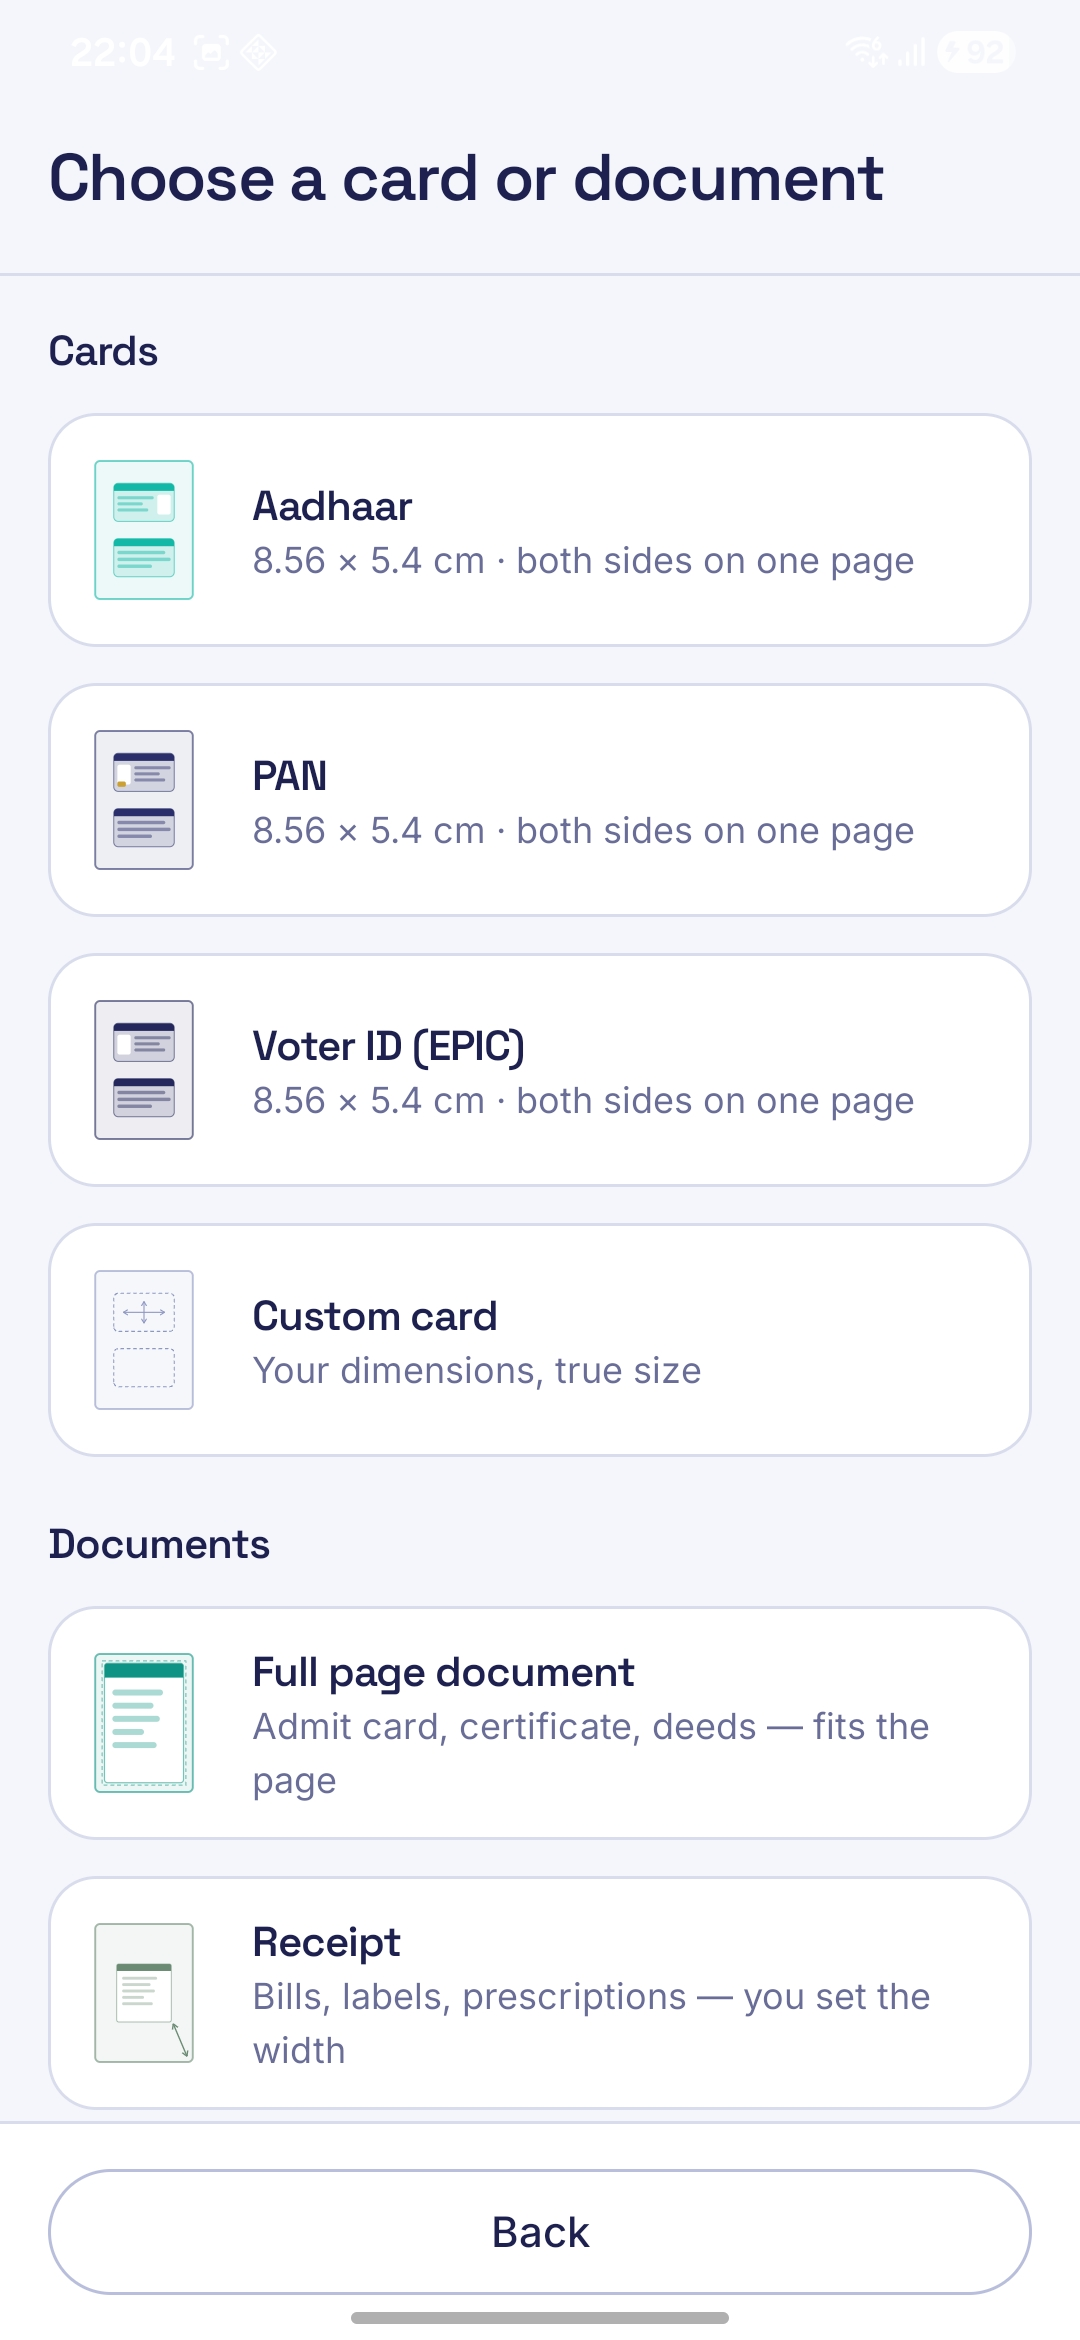
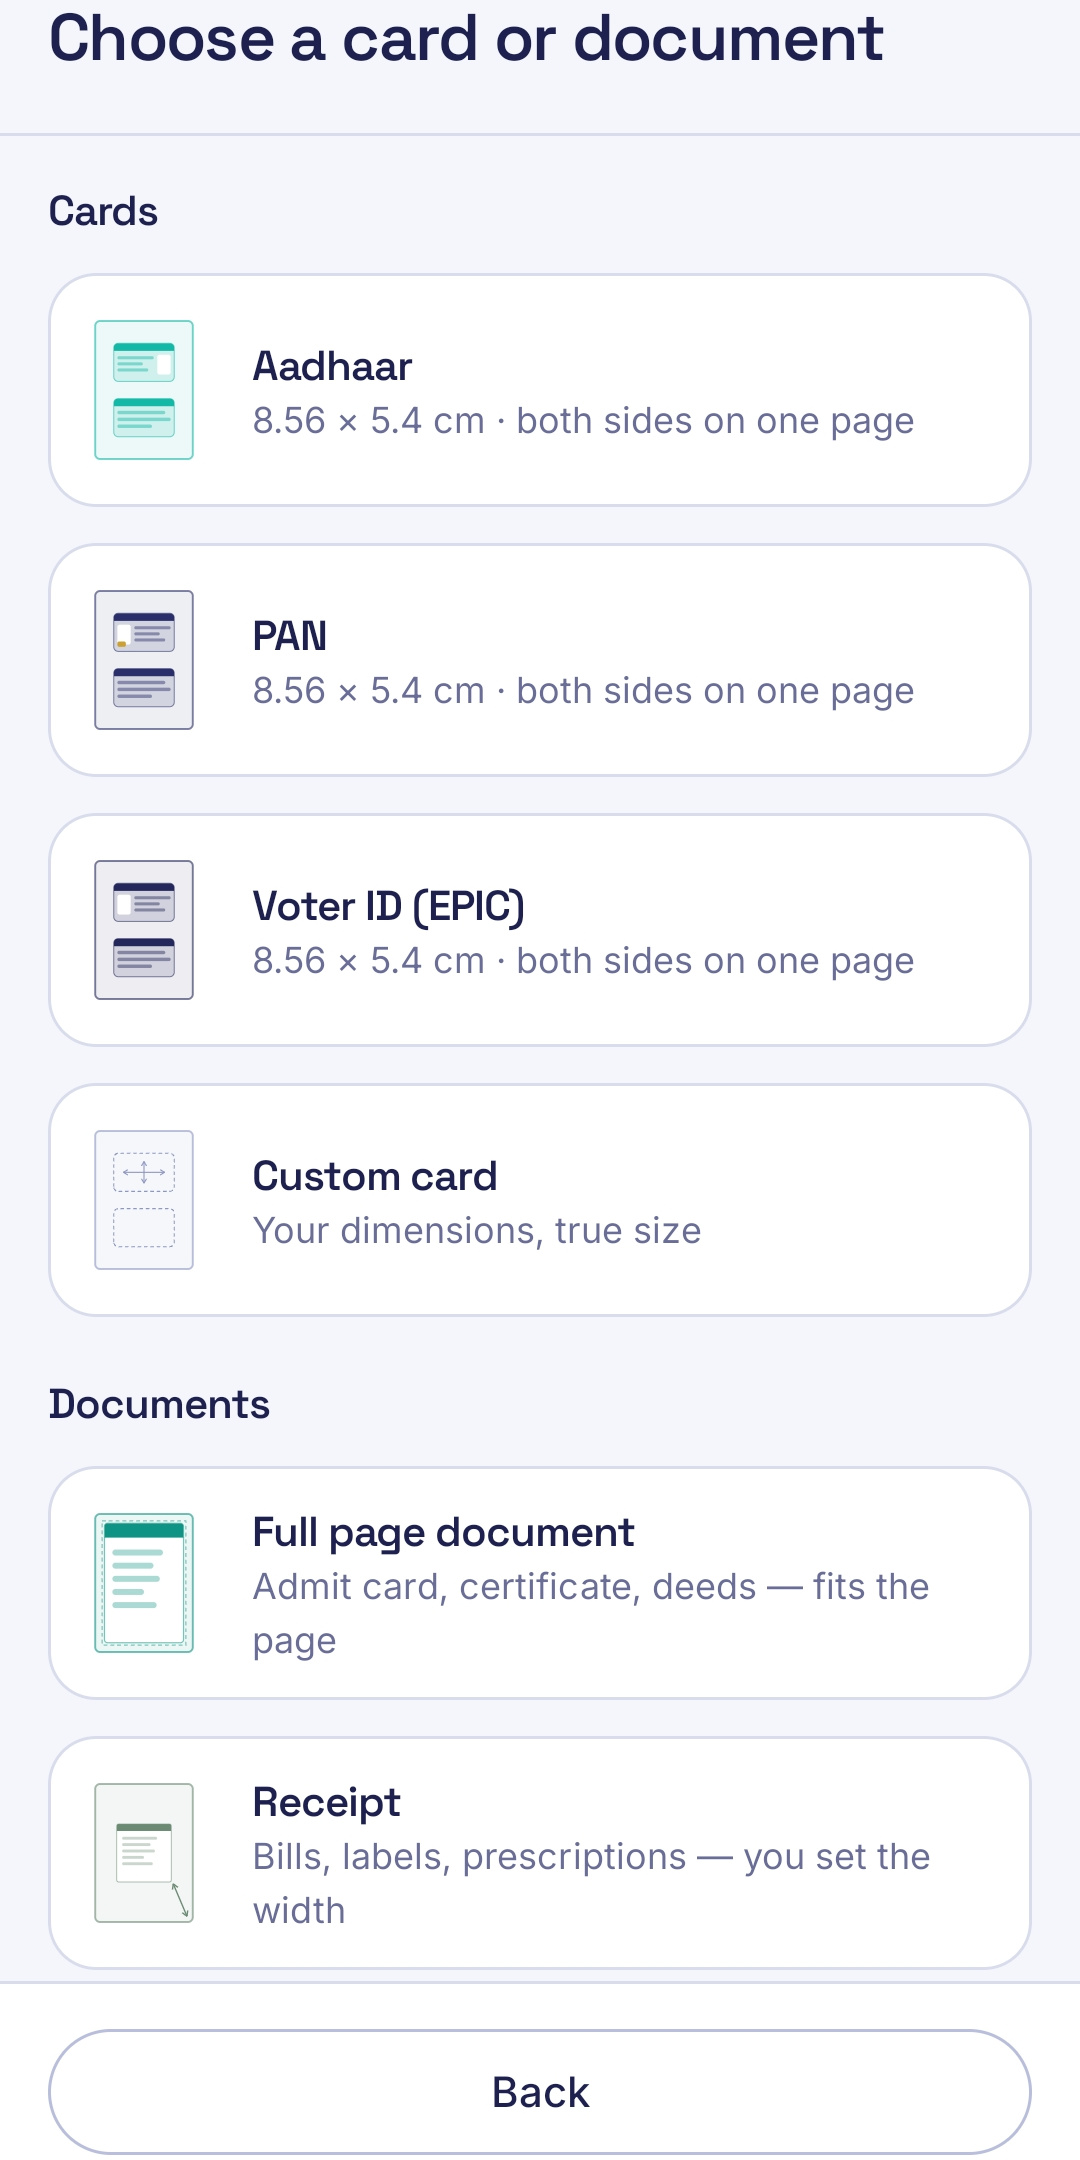
chore(store): crop screenshots to 1080x2160 for the Play aspect-ratio limit
Play allows flexible screenshot dimensions, but the longer side must be at most
twice the shorter. The raw S22 captures are 1080x2340 = 2.167, which fails; every
other criterion (side range, JPEG RGB, all well under 8 MB) already passed.

Cropping the system chrome fixes it and improves the shots — the status bar carried
the clock, carrier and notification icons, none of which belong in a listing.

The crop is measured, not chosen: app content starts at y=152 on every capture, and
on 01_home the About card runs to y~2297 with the gesture pill below, so the bottom
can only give up 40 px without clipping a card. That forces 140 px off the top to
reach 2160 — exactly 2:1, which the "no more than twice" limit permits.

screenshots/ now holds the untouched raw captures and store-assets/ the listing-ready
set; they were byte-identical copies before, so this is a real split in meaning.

tools/crop_screenshots.py regenerates one from the other. Standalone, not wired into
Gradle, ships nothing.

Verified: all 8 at 1080x2160 ratio 2.0000, RGB, largest 0.43 MB; icon 512x512 RGBA;
feature graphic 1024x500 RGB no alpha; 8 captions for 8 screenshots.

diff --git a/tools/crop_screenshots.py b/tools/crop_screenshots.py
@@ -1,0 +1,68 @@
+#!/usr/bin/env python3
+"""
+Produce listing-ready screenshots from the raw device captures.
+
+Play requires each side within 320..3840 px and the longer side to be at most twice
+the shorter. The raw S22 captures are 1080x2340, i.e. 2.167 — 180 px too tall.
+
+Cropping the system chrome fixes the ratio and improves the shots: the status bar
+carries the clock, carrier and notification icons, none of which belong in a store
+listing.
+
+The crop is pinned by measurement, not taste. App content starts at y=152 on every
+capture, and on 01_home the About card runs to y~2297 with the gesture pill below it,
+so the bottom can only give up 40 px without clipping a card. That forces >=140 px off
+the top to reach 2160, which is exactly 2:1 — the limit is "no more than twice", so
+equal is fine.
+
+    python tools/crop_screenshots.py
+
+Reads screenshots/ (kept as the untouched raw captures) and writes store-assets/
+(the listing-ready set). Not part of the Android build.
+"""
+
+from pathlib import Path
+
+from PIL import Image
+
+REPO = Path(__file__).resolve().parent.parent
+SRC = REPO / "screenshots"
+DST = REPO / "store-assets"
+
+CROP_TOP = 140     # status bar; app content starts at y=152, leaving a 12 px margin
+CROP_BOTTOM = 40   # gesture pill only; the About card ends at y~2297
+JPEG_QUALITY = 95  # high enough that re-encoding is not visible
+MAX_RATIO = 2.0
+
+
+def main() -> int:
+    DST.mkdir(parents=True, exist_ok=True)
+    shots = sorted(SRC.glob("*.jpg"))
+    if not shots:
+        print("no screenshots found")
+        return 1
+
+    for p in shots:
+        im = Image.open(p).convert("RGB")
+        w, h = im.size
+        out = im.crop((0, CROP_TOP, w, h - CROP_BOTTOM))
+        ow, oh = out.size
+        ratio = max(ow, oh) / min(ow, oh)
+        target = DST / p.name
+        out.save(target, "JPEG", quality=JPEG_QUALITY, optimize=True, subsampling=0)
+        size_mb = target.stat().st_size / 1024 / 1024
+        ok = (
+            320 <= ow <= 3840
+            and 320 <= oh <= 3840
+            and ratio <= MAX_RATIO
+            and size_mb < 8
+        )
+        print(
+            f"{p.name:<26} {w}x{h} -> {ow}x{oh}  ratio {ratio:.4f}  "
+            f"{size_mb:.2f} MB  {'PASS' if ok else 'FAIL'}"
+        )
+    return 0
+
+
+if __name__ == "__main__":
+    raise SystemExit(main())
